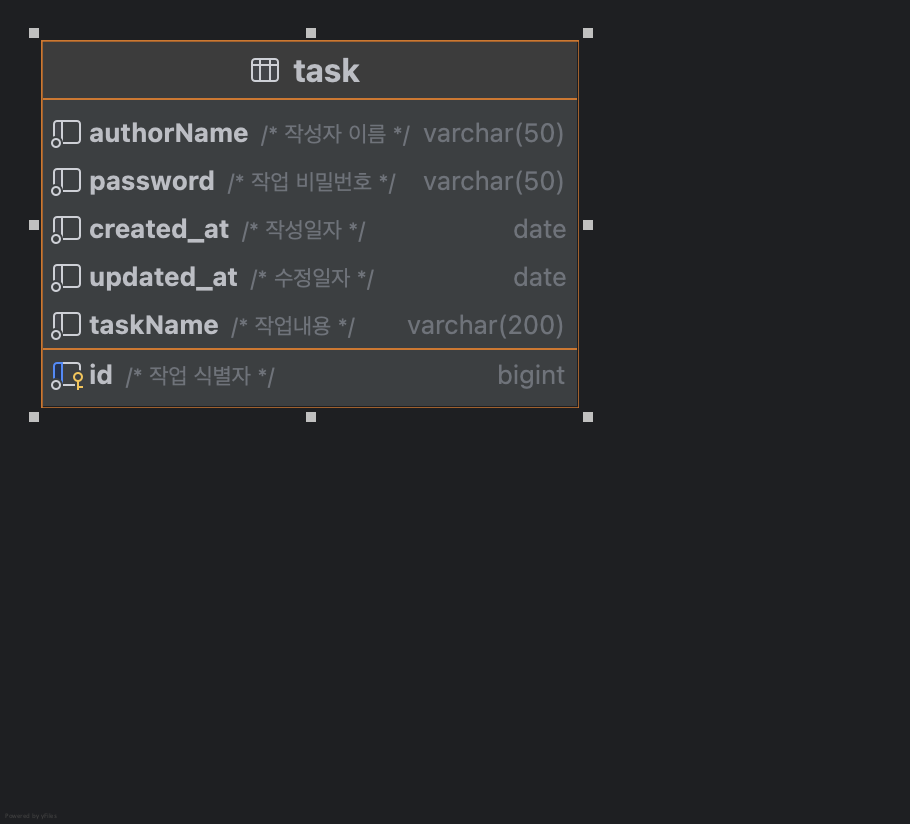
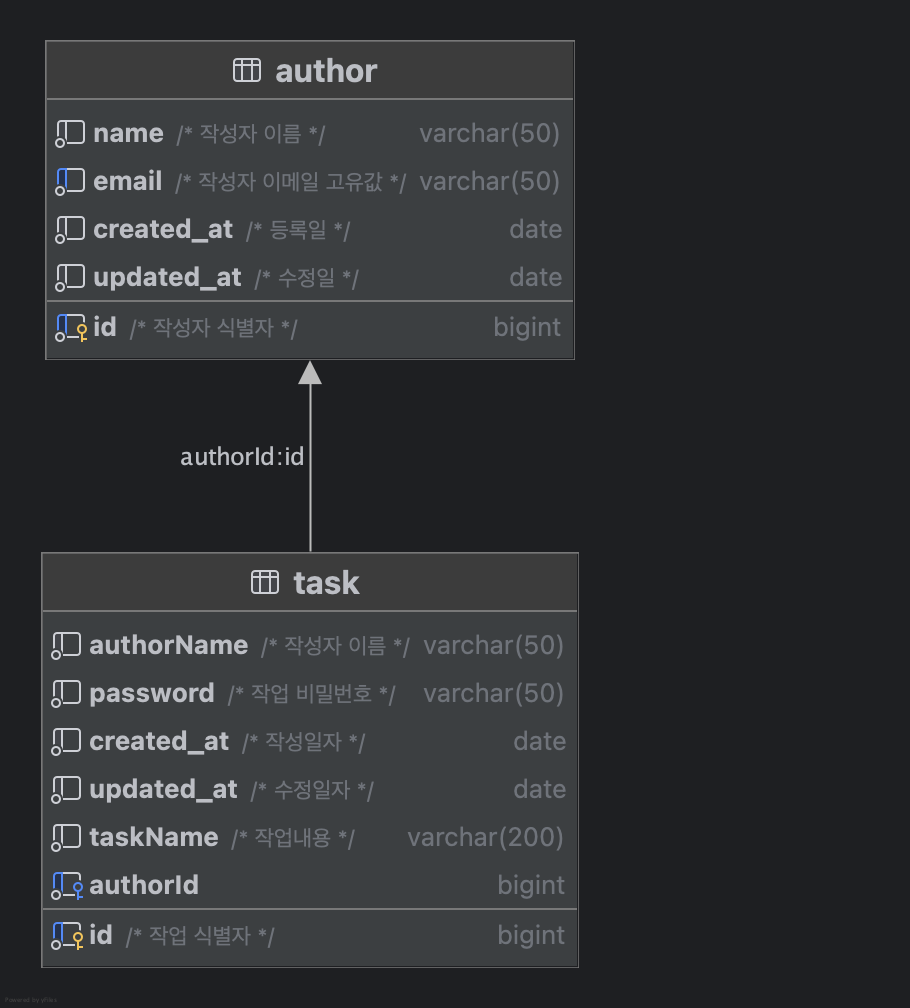
feat : lv3 start, saveTask , saveAuthor

diff --git a/src/main/java/org/example/taskmanager/task/service/TaskService.java b/src/main/java/org/example/taskmanager/task/service/TaskService.java
@@ -1,20 +1,18 @@
 package org.example.taskmanager.task.service;
 
 import lombok.extern.slf4j.Slf4j;
+import org.example.taskmanager.task.dto.AuthorResponseDto;
 import org.example.taskmanager.task.dto.TaskRequestDto;
 import org.example.taskmanager.task.dto.TaskResponseDto;
 import org.example.taskmanager.task.entity.Task;
+import org.example.taskmanager.task.repository.IAuthorRepository;
 import org.example.taskmanager.task.repository.ITaskRepository;
 import org.springframework.http.HttpStatus;
-import org.springframework.http.ResponseEntity;
 import org.springframework.stereotype.Service;
 import org.springframework.transaction.annotation.Transactional;
 import org.springframework.web.server.ResponseStatusException;
 
 import java.time.LocalDate;
-import java.time.LocalDateTime;
-import java.time.format.DateTimeFormatter;
-import java.util.Comparator;
 import java.util.List;
 import java.util.Optional;
 
@@ -23,16 +21,24 @@ import java.util.Optional;
 public class TaskService implements ITaskService {
 
     private final ITaskRepository taskRepository;
+    private final IAuthorRepository authorRepository;
 
-    public TaskService(ITaskRepository taskRepository) {
+    public TaskService(ITaskRepository taskRepository, IAuthorRepository authorRepository) {
         this.taskRepository = taskRepository;
+        this.authorRepository = authorRepository;
     }
 
     @Override
     public TaskResponseDto saveTask(TaskRequestDto dto) {
         //logic 작성
-        Task task = new Task(dto.getTaskName(), dto.getAuthorName(), dto.getPassword());
+        //email로 작성자 테이블 확인 후 save
+        Long authorId = authorRepository.getAuthorId(dto.getAuthorEmail());
+        if(authorId == null){
+            AuthorResponseDto authorResponseDto = authorRepository.saveAuthor(dto.getAuthorEmail(), dto.getAuthorName());
+            authorId = authorResponseDto.getId();
+        }
 
+        Task task = new Task(dto.getTaskName(), dto.getPassword(), authorId);
         return taskRepository.saveTask(task);
     }
 
@@ -57,6 +63,7 @@ public class TaskService implements ITaskService {
         return toResponseDto(task);
     }
 
+
     @Override
     public List<TaskResponseDto> findTaskAll(TaskRequestDto dto) {
         //요청값 가져오기
@@ -70,7 +77,7 @@ public class TaskService implements ITaskService {
         List<TaskResponseDto> result;
         result = allTask.stream()
                 .filter(s-> updated_at==null|| updated_at.isEqual(s.getUpdated_at())) //1번 필터
-                .filter(s -> authorName == null || authorName.equals(s.getAuthorName())) //2번 필터
+                //.filter(s -> authorName == null || authorName.equals(s.getAuthorName())) //2번 필터
                 .map(this::toResponseDto).toList();
         return result;
     }
@@ -90,7 +97,7 @@ public class TaskService implements ITaskService {
             updateTaskName = task.getTaskName();
         }
         if(updateAuthorName == null){
-            updateAuthorName = task.getAuthorName();
+            //updateAuthorName = task.getAuthorName();
         }
         int row = taskRepository.updateTask(task.getId(), updateTaskName, updateAuthorName);
         if(row == 0){
@@ -110,7 +117,8 @@ public class TaskService implements ITaskService {
 
     private TaskResponseDto toResponseDto(Task task){
 
-        return new TaskResponseDto(task.getId(), task.getTaskName(), task.getAuthorName(), task.getCreated_at(), task.getUpdated_at());
+        //return new TaskResponseDto(task.getId(), task.getTaskName(), task.getAuthorName(), task.getCreated_at(), task.getUpdated_at());
+        return null;
     }
 
     private boolean validPassword(String taskPassword, String dtoPassword){

diff --git a/src/main/java/org/example/taskmanager/task/repository/AuthorRepository.java b/src/main/java/org/example/taskmanager/task/repository/AuthorRepository.java
@@ -1,0 +1,53 @@
+package org.example.taskmanager.task.repository;
+
+import org.example.taskmanager.task.dto.AuthorResponseDto;
+import org.springframework.dao.DataAccessException;
+import org.springframework.jdbc.core.JdbcTemplate;
+import org.springframework.jdbc.core.namedparam.MapSqlParameterSource;
+import org.springframework.jdbc.core.simple.SimpleJdbcInsert;
+import org.springframework.stereotype.Repository;
+
+import java.time.LocalDate;
+import java.util.HashMap;
+import java.util.Map;
+
+@Repository
+public class AuthorRepository implements IAuthorRepository{
+    private final JdbcTemplate jdbcTemplate;
+
+    public AuthorRepository(JdbcTemplate jdbcTemplate) {
+        this.jdbcTemplate = jdbcTemplate;
+    }
+
+    @Override
+    public AuthorResponseDto saveAuthor(String email, String name) {
+        SimpleJdbcInsert jdbcInsert = new SimpleJdbcInsert(jdbcTemplate);
+        jdbcInsert.withTableName("author").usingGeneratedKeyColumns("id");
+        Map<String, Object> parameters = new HashMap<>();
+        parameters.put("email", email);
+        parameters.put("name", name);
+        LocalDate created_at  = LocalDate.now();
+        LocalDate updated_at  = LocalDate.now();
+        parameters.put("created_at", created_at);
+        parameters.put("updated_at", updated_at);
+        Number key = jdbcInsert.executeAndReturnKey(new MapSqlParameterSource(parameters));
+
+        return new AuthorResponseDto(key.longValue(), name, email, created_at, updated_at);
+    }
+
+    @Override
+    public Long getAuthorId(String email) {
+        Long id;
+        try{
+            id = jdbcTemplate.queryForObject("select * from author where email = ?", Long.class, email);
+        } catch (DataAccessException e) {
+            id = null;
+        }
+        return id;
+    }
+
+    @Override
+    public String getAuthorEmail(Long id) {
+        return "";
+    }
+}

diff --git a/src/main/java/org/example/taskmanager/task/repository/TaskRepository.java b/src/main/java/org/example/taskmanager/task/repository/TaskRepository.java
@@ -52,7 +52,7 @@ public class TaskRepository implements ITaskRepository{
         SimpleJdbcInsert jdbcInsert = new SimpleJdbcInsert(jdbcTemplate);
         jdbcInsert.withTableName("task").usingGeneratedKeyColumns("id");
         Map<String, Object> parameters = new HashMap<>();
-        parameters.put("authorName", task.getAuthorName());
+        parameters.put("authorId", task.getAuthorId());
         parameters.put("taskName", task.getTaskName());
         parameters.put("password", task.getPassword());
         LocalDate created_at  = LocalDate.now();
@@ -60,7 +60,8 @@ public class TaskRepository implements ITaskRepository{
         parameters.put("created_at", created_at);
         parameters.put("updated_at", updated_at);
         Number key = jdbcInsert.executeAndReturnKey(new MapSqlParameterSource(parameters));
-        return new TaskResponseDto(key.longValue(), task.getTaskName(), task.getAuthorName(), created_at, updated_at);
+
+        return new TaskResponseDto(key.longValue(), task.getTaskName(), task.getAuthorId(), created_at, updated_at);
     }
 
     @Override
@@ -84,7 +85,7 @@ public class TaskRepository implements ITaskRepository{
                 return new Task(
                         rs.getLong("id"),
                         rs.getString("taskName"),
-                        rs.getString("authorName"),
+                        rs.getLong("authorId"),
                         rs.getString("password"),
                         rs.getDate("created_at").toLocalDate(),
                         rs.getDate("updated_at").toLocalDate()

diff --git a/src/main/java/org/example/taskmanager/task/dto/TaskResponseDto.java b/src/main/java/org/example/taskmanager/task/dto/TaskResponseDto.java
@@ -10,15 +10,15 @@ import java.time.LocalDate;
 public class TaskResponseDto {
     private Long id;
     private String taskName;
-    private String authorName;
+    private Long authorId;
     private LocalDate created_at;
     private LocalDate updated_at;
 
-    public TaskResponseDto(Long id, String taskName, String authorName, LocalDate created_at, LocalDate updated_at){
+    public TaskResponseDto(Long id, String taskName, Long authorId, LocalDate created_at, LocalDate updated_at){
         this.id = id;
-        this.authorName = authorName;
         this.taskName = taskName;
         this.created_at = created_at;
         this.updated_at = updated_at;
+        this.authorId = authorId;
     }
 }

diff --git a/src/main/java/org/example/taskmanager/task/entity/Task.java b/src/main/java/org/example/taskmanager/task/entity/Task.java
@@ -11,14 +11,14 @@ import java.time.LocalDateTime;
 public class Task {
     private Long id;
     private String taskName;
-    private String authorName;
+    private Long authorId;
     private String password;
     private LocalDate created_at;
     private LocalDate updated_at;
 
-    public Task(String taskName, String authorName, String password){
+    public Task(String taskName, String password, Long authorId){
         this.taskName = taskName;
-        this.authorName = authorName;
+        this.authorId = authorId;
         this.password = password;
     }
 

diff --git a/src/main/java/org/example/taskmanager/task/dto/AuthorResponseDto.java b/src/main/java/org/example/taskmanager/task/dto/AuthorResponseDto.java
@@ -1,18 +1,17 @@
 package org.example.taskmanager.task.dto;
 
-
+import lombok.AllArgsConstructor;
 import lombok.Getter;
 
 import java.time.LocalDate;
 
-
+@AllArgsConstructor
 @Getter
-public class TaskRequestDto {
+public class AuthorResponseDto {
 
-    private String taskName;
-    private String authorName;
-    private String authorEmail;
-    private String password;
+    private Long id;
+    private String name;
+    private String email;
     private LocalDate created_at;
     private LocalDate updated_at;
 }

diff --git a/src/main/java/org/example/taskmanager/task/repository/IAuthorRepository.java b/src/main/java/org/example/taskmanager/task/repository/IAuthorRepository.java
@@ -1,0 +1,10 @@
+package org.example.taskmanager.task.repository;
+
+import org.example.taskmanager.task.dto.AuthorResponseDto;
+
+public interface IAuthorRepository {
+
+    AuthorResponseDto saveAuthor(String email, String name);
+    Long getAuthorId(String email);
+    String getAuthorEmail(Long id);
+}

diff --git a/src/main/java/org/example/taskmanager/task/entity/Author.java b/src/main/java/org/example/taskmanager/task/entity/Author.java
@@ -1,0 +1,5 @@
+package org.example.taskmanager.task.entity;
+
+public class Author {
+
+}
